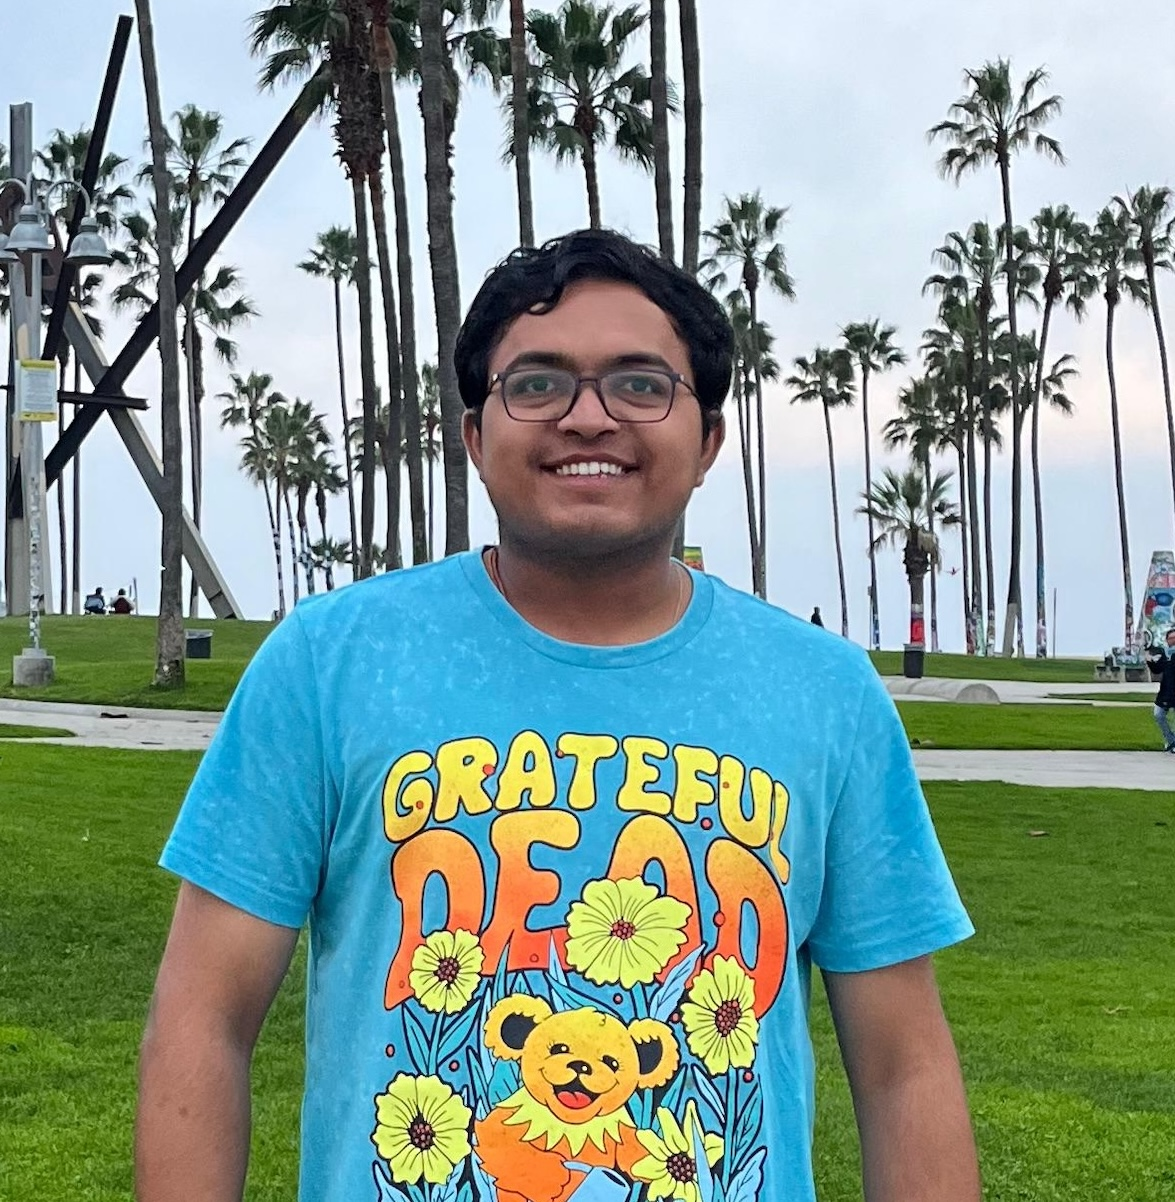
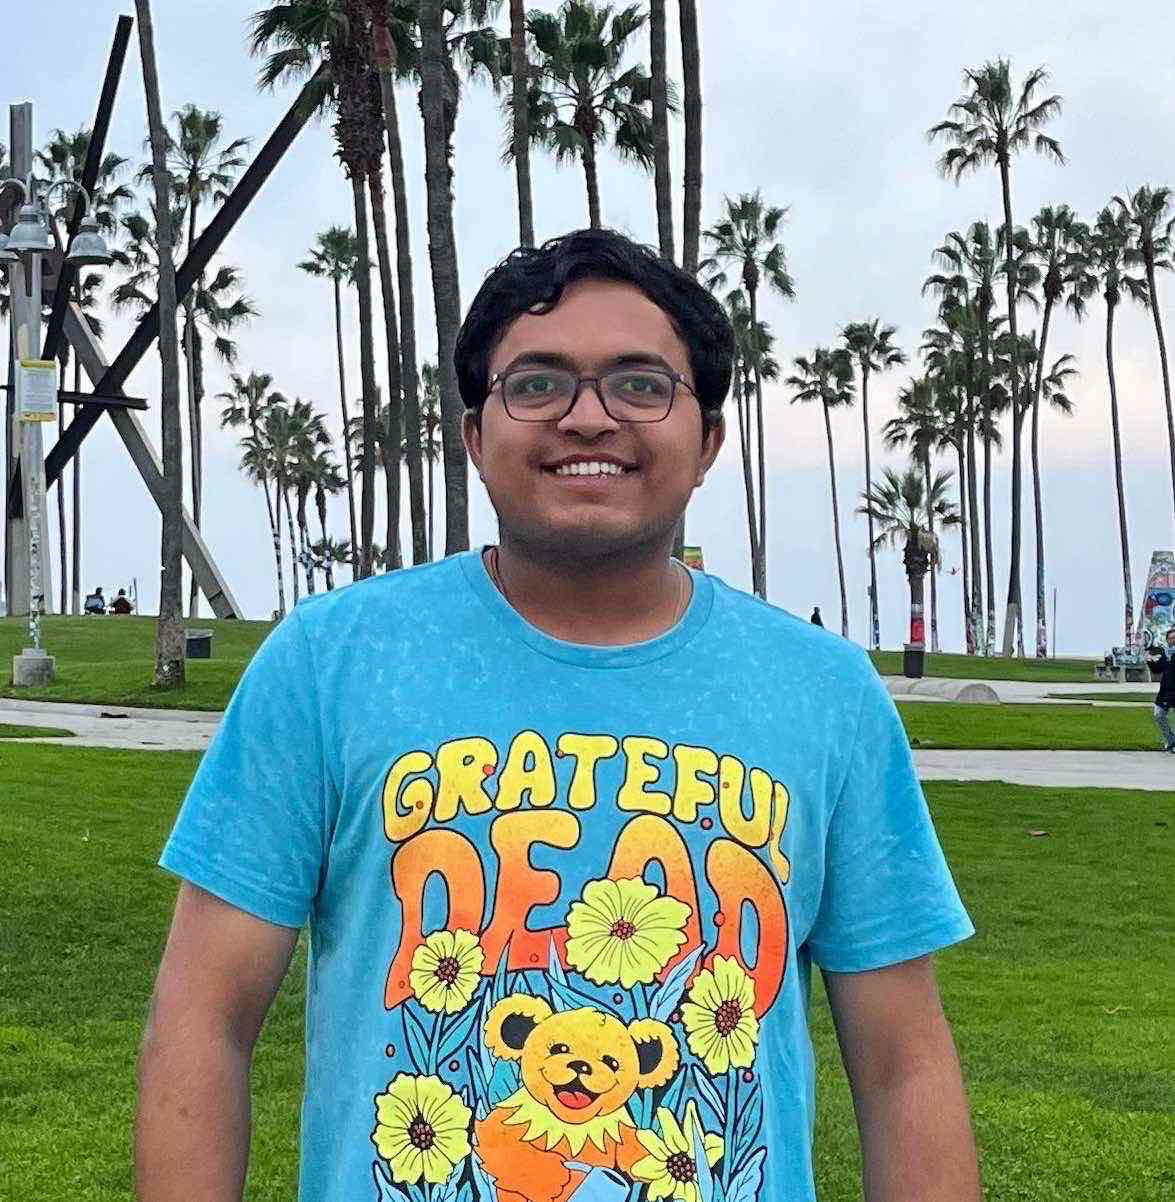
feat: analytics, image compression, neofetch terminal command
- Add @vercel/analytics to layout (real visitor tracking)
- Compress profile.jpeg 578KB → 148KB (74% reduction via sips)
- Add `neofetch` command to terminal with ASCII logo + system info block

diff --git a/src/components/terminal.tsx b/src/components/terminal.tsx
@@ -21,10 +21,33 @@ const COMMANDS: Record<string, () => OutputLine[]> = {
     { text: "  contact     — Establish connection", type: "output" },
     { text: "  status      — System status", type: "output" },
     { text: "  resume      — Download resume", type: "output" },
+    { text: "  neofetch    — System info (fancy)", type: "output" },
     { text: "  whoami      — Current user info", type: "output" },
     { text: "  ls          — List directory", type: "output" },
     { text: "  uname       — System info", type: "output" },
     { text: "  clear       — Clear terminal", type: "output" },
+  ],
+  neofetch: () => [
+    { text: "   ███████╗ █████╗  ██████╗  █████╗ ██████╗ ", type: "accent" },
+    { text: "   ██╔════╝██╔══██╗██╔════╝ ██╔══██╗██╔══██╗", type: "accent" },
+    { text: "   ███████╗███████║██║  ███╗███████║██████╔╝", type: "accent" },
+    { text: "   ╚════██║██╔══██║██║   ██║██╔══██║██╔══██╗", type: "accent" },
+    { text: "   ███████║██║  ██║╚██████╔╝██║  ██║██║  ██║", type: "accent" },
+    { text: "   ╚══════╝╚═╝  ╚═╝ ╚═════╝ ╚═╝  ╚═╝╚═╝  ╚═╝", type: "accent" },
+    { text: "", type: "output" },
+    { text: "   sagar@sagar-os", type: "accent" },
+    { text: "   ─────────────────────────────", type: "muted" },
+    { text: "   OS:       SAGAR_OS v1.0.0 (stable)", type: "output" },
+    { text: "   Kernel:   Embedded Linux + AI Stack", type: "output" },
+    { text: "   Shell:    bash 5.2.37 / zsh 5.9", type: "output" },
+    { text: "   Arch:     x86_64 / ARM64 / Jetson Orin", type: "output" },
+    { text: "   Languages: C / C++ / Python / Rust", type: "output" },
+    { text: "   Stack:    CUDA · TensorRT · ROS2 · DPDK", type: "output" },
+    { text: "   Uptime:   5y 10m (career mode)", type: "output" },
+    { text: "   Location: San Francisco Bay Area, CA", type: "output" },
+    { text: "   Status:   Open to roles", type: "accent" },
+    { text: "", type: "output" },
+    { text: "   ████ ████ ████ ████ ████ ████ ████ ████", type: "accent" },
   ],
   whoami: () => [
     { text: "visitor", type: "accent" },

diff --git a/src/app/layout.tsx b/src/app/layout.tsx
@@ -1,5 +1,6 @@
 import type { Metadata } from "next";
 import { Inter, JetBrains_Mono } from "next/font/google";
+import { Analytics } from "@vercel/analytics/next";
 import { Navbar } from "@/components/layout/navbar";
 import { StatusBar } from "@/components/layout/status-bar";
 import "./globals.css";
@@ -85,6 +86,7 @@ export default function RootLayout({
         <Navbar />
         <main className="flex-grow pt-14 pb-8">{children}</main>
         <StatusBar />
+        <Analytics />
       </body>
     </html>
   );
